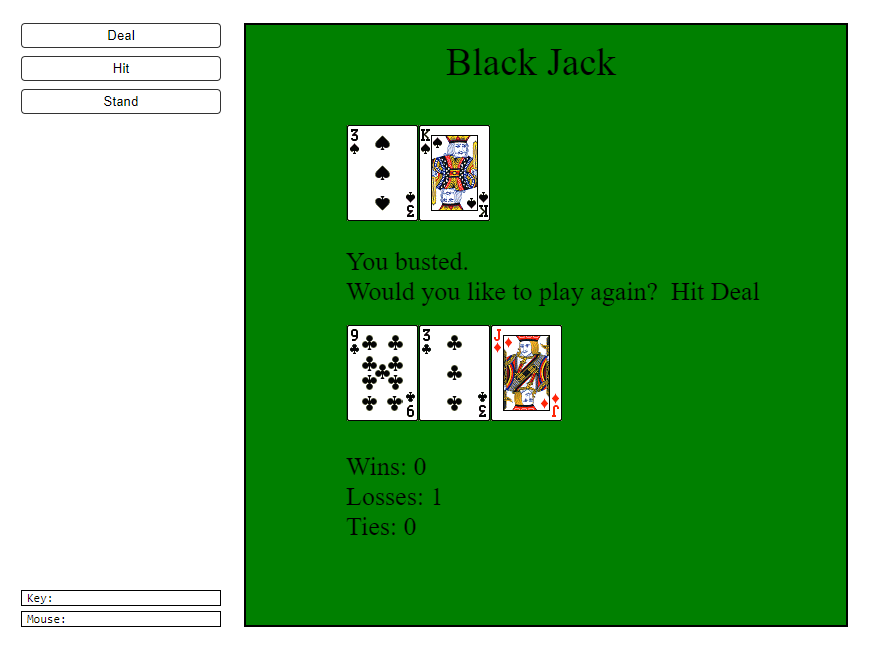
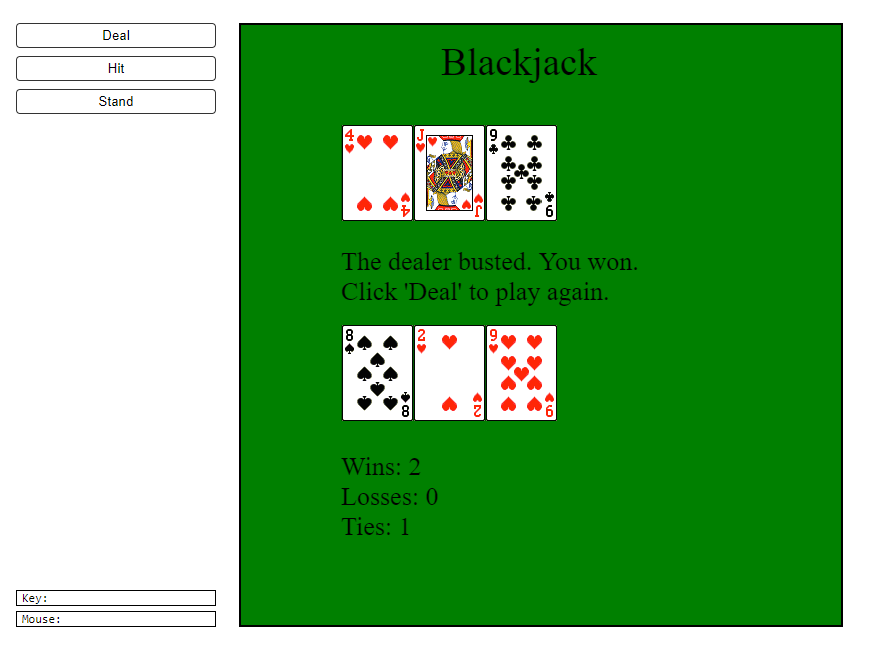
new website typo corrections

diff --git a/index.html b/index.html
@@ -35,19 +35,38 @@
           <li>Power BI</li>
         </ul>
 
-        <h1> Other Specialized Skills</h1>
+        <hr />
+
+        <h1>Education</h1>
+       <h2 class="qualification_title">Rice University (Houston, TX - remote)</h2>
+        <h3 class="qualification_title">Audited Python Courses</h3>
         <ul>
-          <li>Advanced Spanish</li>
-          <li>Certified in Online Teaching</li>
+          <li>Completed Audit of 2-part course in Interactive Programming in Python</li>
+          <li>Created <a href="blackjack.html">blackjack</a> game and games similar to Atari's <a href="basic_pong.html"> Pong</a> and <a href="blasteroids.html">Asteroids</a>.</li>
+        </ul>
+
+        <h2 class="qualification_title">Appalachian State University (Boone, NC)</h2>
+        <h3 class="qualification_title">Master of Arts, Geography</h3>
+        <ul>
+          <li>Valedictorian of graduating class (GPA 4.0)</li>
+          <li>Awarded Vacendak Scholarship, Provost Fellowship, and North Carolina Tuition Scholarship for academic excellence</li>
+        </ul>
+
+        <h2 class="qualification_title">Michigan State University (East Lansing, MI)</h2>
+        <h3 class="qualification_title">Bachelor of Science</h3>
+        <ul>
+          <li>Valedictorian of graduating class (10,000+ students) (GPA 4.0)</li>
+          <li>Krigas Scholarship winner for academic excellence</li>
+          <li>Study abroad (and scholarship winner): Universidad de San Francisco (Quito, Ecuador)</li>
         </ul>
 
         <hr />
 
         <h1>Work Experience</h1>
-        <h2 class="qualification_title">Partners Worldwide (Grand Rapids, MI -- remote)</h2>
+        <h2 class="qualification_title">Partners Worldwide (Grand Rapids, MI - remote)</h2>
         <h3>Program and Data Specialist (April 2021 - Present)</h3>
         <ul>
-          <li>Led maintenance and design of <a href="metric_input_form.html">metric input form</a> in FormTitan and storage of metrics in Salesforce with contractor</li>
+          <li>Led maintenance and design of <a href="metric_input_form.html">metric input form</a> in FormTitan and storage of metrics in Salesforce</li>
           <li>Tracked, analyzed, and visualized organization’s metrics in <a href="power_bi.html">PowerBI</a> and Salesforce</li>
           <li>Maintained and updated <a href="partner_sites.html">partner sites online</a></li>
           <li>Led development of organization's 10-year strategic directions including creation of survey and thematic analysis of survey results</li>
@@ -70,7 +89,7 @@
         <h3>Graduate Teacher and Research Assistant (Aug 2017 - May 2019)</h3>
 
         <ul>
-          <li>Stored, processed, analyzed, and <a href="research.html">visualized complex sets of climate data</a> for research by writing custom Python programs and creating maps in ESRI ArcGIS</li>
+          <li>Analyzed, processed, stored, and <a href="research.html">visualized complex sets of climate data</a> for research by writing custom Python programs and creating maps in ESRI ArcGIS</li>
           <li>Research published by <a href="https://rmets.onlinelibrary.wiley.com/doi/abs/10.1002/joc.7058">International Journal of Climatology</a></li>
           <li>Presented findings of research at a scientific conference</li>
           <li>Taught 3 introductory climate change courses to approximately 75 undergraduates</li>
@@ -80,8 +99,7 @@
         <h3>Bilingual Investigator (Sep 2010 - Mar 2016)</h3>
 
         <ul>
-          <li>Interviewed individuals, observed surroundings, and interpreted guidance to to form conclusions and write reports that could stand up in court</li>
-          <li>Presented regulatory information in individual and group settings to business professionals throughout career</li>
+          <li>Interviewed individuals, observed surroundings, and interpreted guidance to form conclusions and write reports that could stand up in court</li>
           <li>Organized, planned, and implemented strategic enforcement plans for 3 fiscal years</li>
           <li>Met or exceeded all performance metrics each year: submitting cases free of substantive error, adhering to enforcement policies and procedures, providing support to co-workers and the public, following ethical standards, and successfully concluding cases in a timely and efficient manner</li>
         </ul>
@@ -95,28 +113,15 @@
         </ul>
         <hr />
 
-        <h1>Education</h1>
-       <h2 class="qualification_title">Rice University (Houston, TX - remote)</h2>
-        <h3 class="qualification_title">Audited Python Courses (Completed Aug 2022)</h3>
+        <h1> Other Specialized Skills</h1>
         <ul>
-          <li>Completed Audit of 2-part course in Interactive Programming in Python</li>
+          <li>Advanced in Spanish (Writing, Communicating, and Reading)</li>
+          <li>Certified in Online Teaching</li>
+          <li>Adept in Facilitating Workshops and Presentations</li>
+          <li>Known for Building Trusting Partnerships</li>
         </ul>
 
-        <h2 class="qualification_title">Appalachian State University (Boone, NC)</h2>
-        <h3 class="qualification_title">Master of Arts, Geography (Conferred Dec 2018)</h3>
-        <ul>
-          <li>Valedictorian of graduating class (GPA 4.0)</li>
-          <li>Awarded Vacendak Scholarship, Provost Fellowship, and North Carolina Tuition Scholarship for academic excellence</li>
-        </ul>
-
-        <h2 class="qualification_title">Michigan State University (East Lansing, MI)</h2>
-        <h3 class="qualification_title">Bachelor of Science (Conferred May 2007)</h3>
-        <ul>
-          <li>Valedictorian of graduating class (10,000+ students) (GPA 4.0)</li>
-          <li>Krigas Scholarship winner for academic excellence</li>
-          <li>Study abroad (and scholarship winner): Universidad de San Francisco (Quito, Ecuador)</li>
-        </ul>
-
+        <hr />
       </section>
       <footer>
         <p><small>Hosted on GitHub Pages &mdash; Theme by <a href="https://github.com/orderedlist" target="_blank">orderedlist</a></small></p>

diff --git a/blasteroids.html b/blasteroids.html
@@ -30,9 +30,9 @@
         
         <p>I designed a one-player game similar to Asteroids by Atari, Inc.  The program uses separate classes for images, the spaceship, and the asteroids/missiles.  Primary functions include key handlers, a draw function, an asteroid spawner, and functions to test for collisions between missiles and asteroids and the ship and asteroids.  This Python program runs using three imported packages, simpleguitk, math, and random.</p>
         
-        <p>To begin the game and exit the splash screen, a player needs to click the mouse.  The player can thrust the spaceship forward using the forward arrow key and can turn the spaceship using the left or right arrow key. The spaceship will slowly reduce its forward progress after the forward arrow key is released back up.  The spacebar fires missiles.  Points are awarded when a missile hits an asteroid.  If an asteroid hits the spaceship, one life is lost.  A player starts with 3 lives, and at 0 lives, a new game is started.  Up to 10 asteroids are generated at a time, one per second, and all with varying forward velocity, spin velocity, and spin direction.  As the player destroys more asteroids and moves up in levels in the game, the asteroids increase in velocity.</p>
+        <p>To begin the game and exit the splash screen, a player needs to click the mouse.  The player can thrust the spaceship forward using the forward arrow key and can turn the spaceship using the left or right arrow key. The spaceship will slowly reduce its forward progress after the forward arrow key is released back up.  The space bar fires missiles.  Points are awarded when a missile hits an asteroid.  If an asteroid hits the spaceship, one life is lost.  A player starts with 3 lives, and at 0 lives, a new game is started.  Up to 10 asteroids are generated at a time, one per second, and all with varying forward velocity, spin velocity, and spin direction.  As the player destroys more asteroids and moves up in levels in the game, the asteroids increase in velocity.</p>
         
-        <p>My next step on this program is to add the image of an explosion when a missile hits an asteroid or an asteroid hits a spaceship.  After the program was working in CodeSkulptor (an interactive, web-based Python programming environment that allows Python code to be run in a web browser), I ran into an issue in which the spaceship remained in thrust or turned left when the forward arrow key or left arrow keys were pressed.  I suspect the issue is with either an update to CodeSkulptor or Google Chrome since a similar issue appeared wtih another program and since this program was originally working for a couple months.</p>
+        <p>My next step on this program is to add the image of an explosion when a missile hits an asteroid or an asteroid hits a spaceship.  After the program was working in CodeSkulptor (an interactive, web-based Python programming environment that allows Python code to be run in a web browser), I ran into an issue in which the spaceship remained in thrust or turned left when the forward arrow key or left arrow keys were pressed.  I suspect the issue is either with an update to CodeSkulptor or Google Chrome since a similar issue appeared with another program and since this program was bug-free for a couple of months.</p>
         
         <p>Go to <a href="https://github.com/joenaitis/Blasteroids">my repository</a> in GitHub to see my code or click on this <a href="https://py2.codeskulptor.org/#user49_YedwzqGkFE_1.py">link</a> to run this program in CodeSkulptor.</p>
         

diff --git a/blackjack.html b/blackjack.html
@@ -3,7 +3,7 @@
   <head>
     <meta charset="utf-8">
     <meta http-equiv="X-UA-Compatible" content="chrome=1">
-    <title>Joe Jonaitis - Black Jack</title>
+    <title>Joe Jonaitis - Blackjack</title>
 
     <link rel="stylesheet" href="stylesheets/styles.css">
     <link rel="stylesheet" href="stylesheets/pygment_trac.css">
@@ -26,11 +26,11 @@
         <p class="nav_links"><a href="projects.html">Sample Projects</a></p>
       </header>
       <section>
-        <h1>Black Jack</h1>
+        <h1>Blackjack</h1>
         
-        <p>I designed a one-person black jack game played against the dealer.  The program employs three classes (card, hand, and deck), event functions (deal, hit, or stand), and a draw function and runs using two imported packages (simpleguitk and random).  For images of playing cards, I used a tiled image of a deck of cards.</p>
+        <p>I designed a one-person blackjack game played against the dealer.  The program employs three classes (card, hand, and deck), event functions (deal, hit, or stand), and a draw function and runs using two imported packages (simpleguitk and random).  For images of playing cards, I used a tiled image of a deck of cards.</p>
 
-        <p>This version of black jack follows standard black jack rules.  The player's goal is to beat the dealers hand without going over 21.  Face cards (J, Q, K) are worth 10.  Number cards have the same value as their number.  Aces are worth 1 or 11, with the program assigning the most advantageous value. The player may hit (ask for another card) as many times as desired as long as the hand value is less than 22.  Once the player stands (requests not to receive any more cards), the dealer begins to play.  The dealer is required to hit at 16 or lower and stand at 17 or higher.  In this verion there is not an option for the player to split the hand if the two dealt cards have the same value.  There also is not an option for the player to double down. No betting is allowed; only wins, losses, and ties are tracked.</p>
+        <p>This version of blackjack follows standard blackjack rules.  The player's goal is to beat the dealer's hand without going over 21.  Face cards (J, Q, K) are worth 10.  Number cards have the same value as their number.  Aces are worth 1 or 11, with the program assigning the most advantageous value. The player may hit (ask for another card) as many times as desired as long as the hand value is less than 22.  Once the player stands (requests not to receive any more cards), the dealer begins to play.  The dealer is required to hit at 16 or lower and stand at 17 or higher.  In this verion there is not an option for the player to split the hand if the two dealt cards have the same value.  There also is not an option for the player to double down. No betting is allowed; only wins, losses, and ties are tracked.</p>
 
         <p>Check out the code at <a href="https://github.com/joenaitis/Black_Jack">my repository</a> in GitHub or click on this <a href="https://py2.codeskulptor.org/#user49_qP6429ZOwy_1.py">link</a> to run this program in CodeSkulptor, an interactive, web-based Python programming environment that allows Python code to be run in a web browser.</p>
         

diff --git a/basic_pong.html b/basic_pong.html
@@ -30,9 +30,9 @@
         
         <p>I designed a two-player game similar to Pong by Atari, Inc.  Primary functions include key handlers, a draw function with updates, a ball spawner, and a new game function.  This Python program runs using two imported packages, simpleguitk and random.</p>
         
-        <p>As soon as the code is run, the game starts by generating a ball with a random velocity and direction (within certain constraints so as to not make the ball too fast or the angle of the ball such that it would take a long time for the ball to reach a paddle).  Player 1 uses the 'w' and 's' keys to move the paddle up and down.  Player 2 does the same using the up and down arrow keys.  The players attempt to bounce the ball off their padddle, preventing the ball from falling in their respective gutter.  If a ball falls into the gutter, a point is awarded to the opposing player.</p>
+        <p>As soon as the code is run, the game starts by generating a ball with a random velocity and direction (within certain constraints so as to not make the ball too fast or the angle of the ball such that it would take a long time for the ball to reach a paddle).  Player 1 uses the 'w' and 's' keys to move the paddle up and down.  Player 2 does the same using the up and down arrow keys.  The players attempt to bounce the ball off their paddle, preventing the ball from falling into their respective gutter.  If a ball falls into the gutter, a point is awarded to the opposing player.</p>
         
-        <p>After the program was working in CodeSkulptor (an interactive, web-based Python programming environment that allows Python code to be run in a web browser), I ran into an issue in which player 2's paddle remained locked or unresponsive to the up, left, and right arrow keys.  Since I am having a similar issue with another program in CodeSkulptor and since this program was bug free for a couple months, I suspect the issue might be related to a browser update or CodeSkulptor udpate.</p>
+        <p>After the program was working in CodeSkulptor (an interactive, web-based Python programming environment that allows Python code to be run in a web browser), I ran into an issue in which player 2's paddle remained locked or unresponsive to the up, left, and right arrow keys.  Since I am having a similar issue with another program in CodeSkulptor and since this program was bug-free for a couple of months, I suspect the issue might be related to a browser update or CodeSkulptor update.</p>
         
         <p>Go to <a href="https://github.com/joenaitis/Basic_Pong">my repository</a> in GitHub to see my code or click on this <a href="https://py2.codeskulptor.org/#user49_Wz8romxtOp_3.py">link</a> to run this program in CodeSkulptor.</p>
         

diff --git a/projects.html b/projects.html
@@ -35,12 +35,12 @@
               <th>Summary</th>
             </tr>
             <tr>
-              <td><a href="pong.html">Basic Pong</a></td>
+              <td><a href="basic_pong.html">Basic Pong</a></td>
               <td>Created a two-person game similar to the Pong arcade game created by Atari, Inc</td>
             </tr>
             <tr>
-              <td><a href="black_jack.html">Black Jack</a></td>
-              <td>Created one-person black jack game played against the dealer</td>
+              <td><a href="blackjack.html">Blackjack</a></td>
+              <td>Created one-person blackjack game played against the dealer</td>
             </tr>
             <tr>
               <td><a href="blasteroids.html">Blasteroids</a></td>
@@ -68,7 +68,7 @@
             </tr>
             <tr>
               <td><a href="power_bi.html">Power BI Dashboard</a></td>
-              <td>Tracked, analyzed, and visualized organization’s metrics in PowerBI</a> and Salesforce</td>
+              <td>Tracked, analyzed, and visualized organization’s metrics in PowerBI and Salesforce</td>
             </tr>
           </tbody>
         </table>
@@ -84,7 +84,7 @@
             </tr>
             <tr>
               <td><a href="research.html">Climate Research</a></td>
-              <td>Stored, processed, analyzed, and visualized complex sets of climate data by writing custom Python programs and creating maps in ESRI ArcGIS.</td>
+              <td>Analyzed, processed, stored, and visualized complex sets of climate data by writing custom Python programs and creating maps in ESRI ArcGIS.</td>
             </tr>
           </tbody>
         </table>

diff --git a/metric_input_form.html b/metric_input_form.html
@@ -28,7 +28,9 @@
       <section>
         <h1>Metric Input Form Design and Maintenance</h1>
         
-        <p>Over 1.5 years, I led the maintenance and design of our organization's metric input form in FormTitan and the storage of metrics in Salesforce with a team of staff and contractors.</p>
+        <p>For over 1.5 years, I led the maintenance and design of our organization's metric input form in FormTitan and the storage of metrics in Salesforce with a team of staff and contractors.</p>
+
+        <p>As requested by the organization, the form operates both as a way for our global partners to input metrics but also functions as an outward-facing report and record of all our partners' submitted metrics (since our partners do have access to the organization's Salesforce instance).  The form also allows for a partner to add their own custom metrics if desired.</p>  
         
         <a href="images/metric_input_form_2.png"><img src="images/metric_input_form_2.png" alt="Metric Input Form" title="Metric Input Form">
         

diff --git a/power_bi.html b/power_bi.html
@@ -28,7 +28,7 @@
       <section>
         <h1>Power BI Dashboard</h1>
         
-        <p>I tracked, analyzed, and visualized the organization’s metrics in PowerBI and Salesforce.  With some initial help from our contractor, I connected our Power BI dashboard to our database in Salesforce and designed a dashboard to allow our whole organization to dig into our work and impact.</p>
+        <p>I tracked, analyzed, and visualized the organization’s metrics in PowerBI and Salesforce.  I connected our Power BI dashboard to our database in Salesforce and designed a dashboard to allow our whole organization to dig into our work and impact.</p>
         
         <a href="images/power_bi.png"><img src="images/power_bi.png" alt="Power BI Dashboard" title="Power BI Dashboard">
       </section>

diff --git a/partner_sites.html b/partner_sites.html
@@ -28,7 +28,7 @@
       <section>
         <h1>Partner Sites</h1>
         
-        <p>I maintained and updated online partner sites for our orginzation's global partners in Microsoft SharePoint.</p>
+        <p>I maintained and updated partner sites online for our orginzation's global partners in Microsoft SharePoint.</p>
         
         <a href="images/partner_sites.png"><img src="images/partner_sites.png" alt="Partner Site" title="Partner Site">
         
